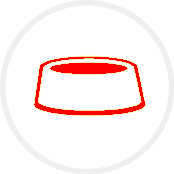
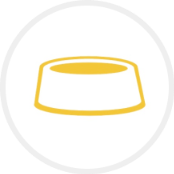
밥그릇
밥그릇

Changed region(s): [[0.2011, 0.3161, 0.8333, 0.6609]]

diff --git a/redshop.py b/redshop.py
@@ -160,6 +160,9 @@ def main(page: ft.Page):
             ),
         )
 
+    # ✅ 추천사료 한 칸(이미지 1개)을 만드는 전용 박스
+    # ✅ 화살표를 눌렀을 때 바뀌는 최종 대상은 이 박스들 안에 들어가는 이미지들임
+    # ✅ image_src 값이 current_recommend_index에 따라 달라지면서 화면 이미지가 바뀜
     def recommend_menu_box(image_src):
         return ft.Container(
             width=72,   # ✅ 수정: 추천사료 전용 박스 크기를 줄여서 모바일 폭에서도 안 넘치게 함
@@ -172,6 +175,10 @@ def main(page: ft.Page):
             ),
         )
 
+    # ✅ 현재 페이지(index)에 해당하는 추천사료 3개를 한 줄로 만드는 함수
+    # ✅ build_recommend_menu(0)이면 recommended_pages의 0번 묶음 이미지를 보여줌
+    # ✅ build_recommend_menu(1)이면 다음 묶음 이미지 3개로 갈아끼워진 Row를 새로 만들어줌
+    # ✅ 즉, 화살표 클릭 시 recommend_content.content 안에 다시 넣어지는 핵심 UI 생성 함수
     def build_recommend_menu(index):
         return ft.Row(
             alignment=ft.MainAxisAlignment.CENTER,
@@ -256,18 +263,33 @@ def main(page: ft.Page):
             ],
         )
 
+    # ✅ 추천사료 페이지 데이터
+    # ✅ 바깥 리스트 = 페이지 묶음
+    # ✅ 안쪽 리스트 = 한 페이지에서 보여줄 이미지 3개
+    # ✅ 예: current_recommend_index가 0이면 첫 번째 3개, 1이면 두 번째 3개가 선택됨
     recommended_pages = [
         ["raw.png", "raw.png", "raw.png"],      # ✅ 첫 번째 3개
         ["시저.png", "시저.png", "시저.png"],   # ✅ 두 번째 3개
         ["시저2.png", "시저2.png", "시저2.png"],  # ✅ 세 번째 3개
     ]
 
+    # ✅ 현재 몇 번째 추천사료 페이지를 보여주는지 저장하는 상태값
+    # ✅ 왼쪽/오른쪽 화살표를 누를 때 이 값이 줄거나 늘어남
+    # ✅ 이 값이 바뀌어야 어떤 이미지 묶음을 보여줄지 결정할 수 있음
     current_recommend_index = 0
 
+    # ✅ 추천사료 표시 영역 자체
+    # ✅ 처음에는 current_recommend_index = 0 이므로 첫 번째 추천사료 묶음이 들어감
+    # ✅ 화살표 클릭 후에는 이 Container의 content를 새 Row로 교체해서 화면을 바꿈
     recommend_content = ft.Container(
         content=build_recommend_menu(current_recommend_index)
     )
 
+    # ✅ 왼쪽 화살표 클릭 함수
+    # ✅ 현재 페이지가 0보다 크면 한 칸 이전 페이지로 이동
+    # ✅ current_recommend_index를 1 감소시킨 뒤
+    # ✅ recommend_content.content를 새 추천사료 Row로 교체
+    # ✅ 마지막으로 page.update()로 실제 화면에 변경사항 반영
     def show_prev_recommend(e):
         nonlocal current_recommend_index
         if current_recommend_index > 0:
@@ -275,6 +297,11 @@ def main(page: ft.Page):
             recommend_content.content = build_recommend_menu(current_recommend_index)
             page.update()
 
+    # ✅ 오른쪽 화살표 클릭 함수
+    # ✅ 현재 페이지가 마지막 페이지보다 앞에 있으면 한 칸 다음 페이지로 이동
+    # ✅ current_recommend_index를 1 증가시킨 뒤
+    # ✅ recommend_content.content를 새 추천사료 Row로 교체
+    # ✅ 마지막으로 page.update()로 실제 화면에 변경사항 반영
     def show_next_recommend(e):
         nonlocal current_recommend_index
         if current_recommend_index < len(recommended_pages) - 1:
@@ -372,13 +399,13 @@ def main(page: ft.Page):
                                                 content=ft.IconButton(
                                                     icon=ft.Icons.CHEVRON_LEFT,
                                                     icon_color=ft.Colors.RED,
-                                                    on_click=show_prev_recommend,
+                                                    on_click=show_prev_recommend,  # ✅ 왼쪽 화살표를 누르면 이전 추천사료 페이지로 이동
                                                 ),
                                             ),
                                             ft.Container(
                                                 expand=True,  # ✅ 수정: 기존 width=300 제거, 남는 공간을 유동적으로 써서 모바일에서도 안 잘리게 함
                                                 alignment=ft.Alignment(0, 0),
-                                                content=recommend_content,
+                                                content=recommend_content,  # ✅ 실제로 추천사료 이미지들이 들어가 있는 중앙 표시 영역
                                             ),
                                             ft.Container(
                                                 width=36,  # ✅ 수정: 오른쪽 화살표 자리도 따로 확보해서 모바일 폭에서도 사라지지 않게 함
@@ -386,7 +413,7 @@ def main(page: ft.Page):
                                                 content=ft.IconButton(
                                                     icon=ft.Icons.CHEVRON_RIGHT,
                                                     icon_color=ft.Colors.RED,
-                                                    on_click=show_next_recommend,
+                                                    on_click=show_next_recommend,  # ✅ 오른쪽 화살표를 누르면 다음 추천사료 페이지로 이동
                                                 ),
                                             ),
                                         ],

diff --git a/redshop radio.py b/redshop radio.py
@@ -161,10 +161,37 @@ def white_large_box(
                         vertical_alignment=ft.CrossAxisAlignment.CENTER,
                         spacing=14,
                         controls=[
-                            ft.Radio(value="1주", label="1주"),
-                            ft.Radio(value="2주", label="2주"),
-                            ft.Radio(value="3주", label="3주"),
-                            ft.Radio(value="4주", label="4주"),
+                            ft.Radio(value="1주",
+                                     label="1주",
+                                     label_style=ft.TextStyle(  # ✅ 추가: 라벨 글자 진하게
+                            color=ft.Colors.BLACK,  # ✅ 추가
+                            weight=ft.FontWeight.W_500,  # ✅ 추가
+                            size=14,  # ✅ 추가
+                        ),
+                        ),
+                            ft.Radio(value="2주", 
+                                     label="2주",
+                                     label_style=ft.TextStyle(  # ✅ 추가: 라벨 글자 진하게
+                            color=ft.Colors.BLACK,  # ✅ 추가
+                            weight=ft.FontWeight.W_500,  # ✅ 추가
+                            size=14,  # ✅ 추가
+                        ),
+                        ),
+                            ft.Radio(value="3주", 
+                                     label="3주",
+                                     label_style=ft.TextStyle(  # ✅ 추가: 라벨 글자 진하게
+                            color=ft.Colors.BLACK,  # ✅ 추가
+                            weight=ft.FontWeight.W_500,  # ✅ 추가
+                            size=14,  # ✅ 추가
+                        ),
+                        ),
+                            ft.Radio(value="4주", 
+                                     label="4주",
+                                     label_style=ft.TextStyle(  # ✅ 추가: 라벨 글자 진하게
+                            color=ft.Colors.BLACK,  # ✅ 추가
+                            weight=ft.FontWeight.W_500,  # ✅ 추가
+                            size=14,  # ✅ 추가
+                        ),),
                         ],
                     )
                 ),
@@ -339,7 +366,7 @@ def main(page: ft.Page):
             src="bowlradius_red.png",
             width=40,
             height=40,
-            fit=ft.BoxFit.CONTAIN,
+            fit=ft.BoxFit.COVER,
         ),
         bgcolor=ft.Colors.WHITE,
         shape=ft.CircleBorder(),
